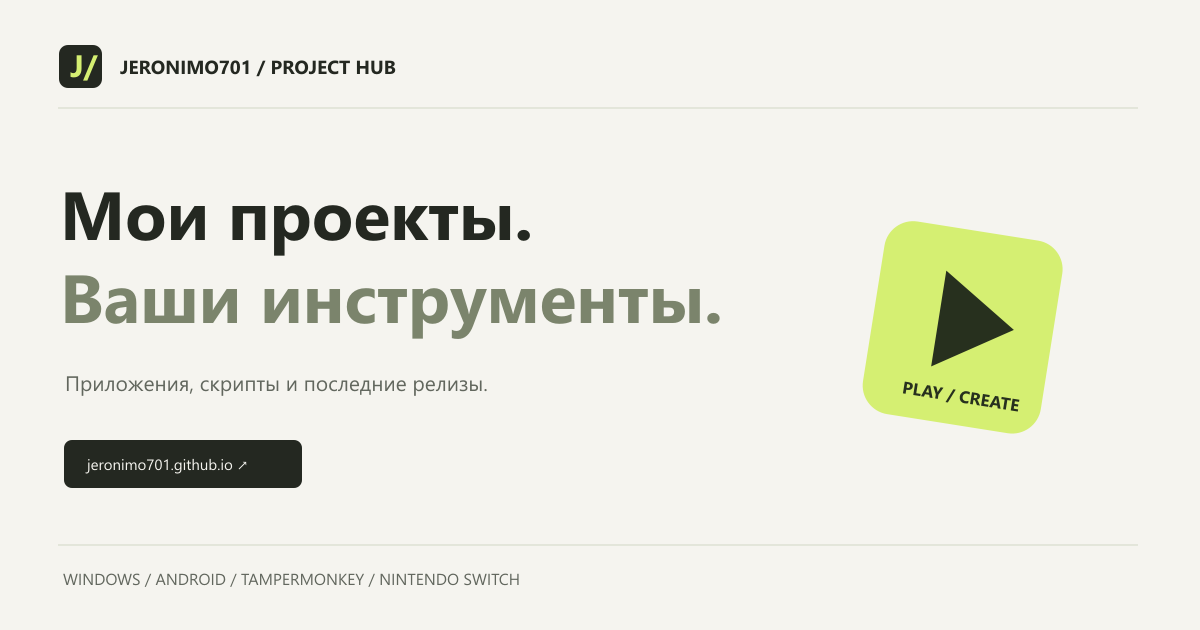
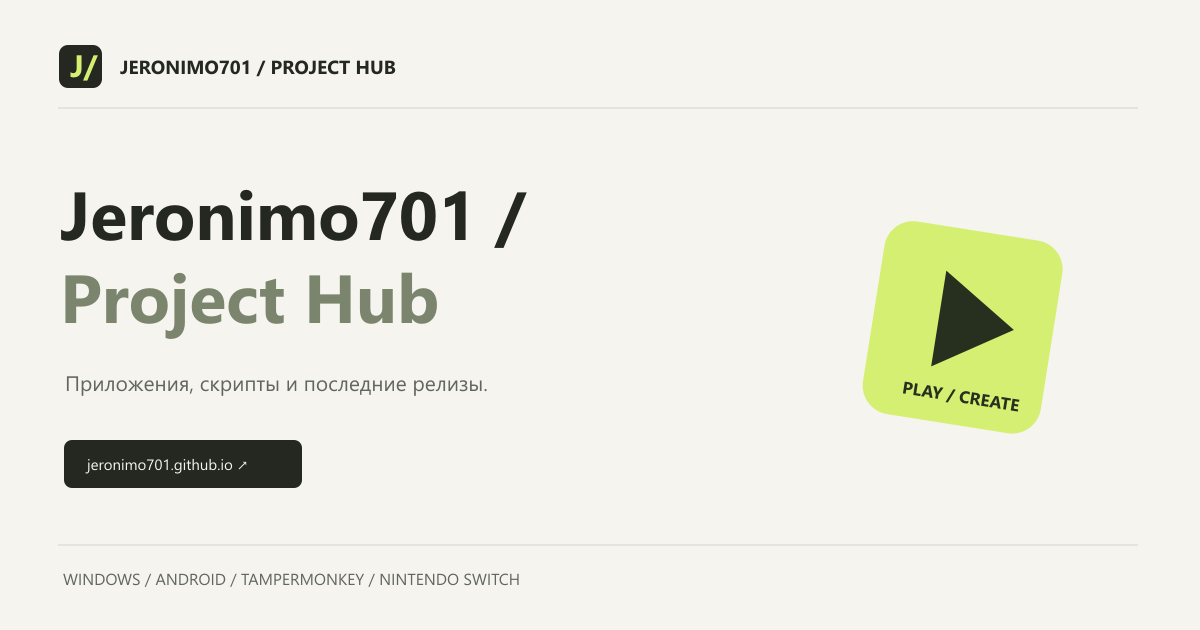
Update Project Hub headline and wait for Pages artifact before deployment

Changed region(s): [[0.0617, 0.4222, 0.6167, 0.5429], [0.0308, 0.3016, 0.4625, 0.4222]]

diff --git a/site/index.html b/site/index.html
@@ -6,8 +6,8 @@
   <meta name="theme-color" content="#f5f4ef">
   <title>Jeronimo701 — проекты и загрузки</title>
   <meta name="description" content="Приложения Jeronimo701 для Windows, Android, Nintendo Switch и скрипты Tampermonkey. Описания, исходники и последние релизы в одном месте.">
-  <meta property="og:title" content="Jeronimo701 — проекты и загрузки">
-  <meta property="og:description" content="Мои проекты. Ваши инструменты. Приложения, скрипты и последние релизы в одном каталоге.">
+  <meta property="og:title" content="Jeronimo701 / Project Hub">
+  <meta property="og:description" content="Project Hub: приложения, скрипты и последние релизы Jeronimo701 в одном каталоге.">
   <meta property="og:type" content="website">
   <meta property="og:url" content="https://jeronimo701.github.io/">
   <meta property="og:image" content="https://jeronimo701.github.io/assets/social.png">
@@ -26,7 +26,7 @@
   </header>
   <main>
     <section class="hero wrap" aria-labelledby="hero-title">
-      <div class="hero-copy"><div class="eyebrow"><span class="status-dot"></span> СДЕЛАНО JERONIMO701</div><h1 id="hero-title">Мои проекты.<br><span>Ваши инструменты.</span></h1><p>Для работы, любимого контента и&nbsp;повседневных задач. Приложения и&nbsp;скрипты, собранные в&nbsp;одном месте.</p><div class="hero-actions"><a href="#catalog" class="button primary">Выбрать инструмент <span aria-hidden="true">↘</span></a><a href="https://github.com/jeronimo701" class="text-link">Посмотреть исходники ↗</a></div><div class="hero-meta"><span><strong id="project-total">—</strong> открытых проектов</span><span class="divider"></span><span>Windows · Android · Web · Switch</span></div></div>
+      <div class="hero-copy"><div class="eyebrow"><span class="status-dot"></span> СДЕЛАНО JERONIMO701</div><h1 id="hero-title">Jeronimo701 /<br><span>Project Hub</span></h1><p>Для работы, любимого контента и&nbsp;повседневных задач. Приложения и&nbsp;скрипты, собранные в&nbsp;одном месте.</p><div class="hero-actions"><a href="#catalog" class="button primary">Выбрать инструмент <span aria-hidden="true">↘</span></a><a href="https://github.com/jeronimo701" class="text-link">Посмотреть исходники ↗</a></div><div class="hero-meta"><span><strong id="project-total">—</strong> открытых проектов</span><span class="divider"></span><span>Windows · Android · Web · Switch</span></div></div>
       <div class="hero-art" aria-hidden="true"><div class="art-header"><span>J701 / TOOLBOX</span><span class="art-dots">● ● ●</span></div><div class="art-canvas"><div class="orbit-line orbit-one"></div><div class="orbit-line orbit-two"></div><div class="art-tile tile-play"><svg viewBox="0 0 100 100"><path d="M37 25 76 50 37 75Z"/></svg><span>PLAY</span></div><div class="art-tile tile-code"><span class="code-glyph">&lt;/&gt;</span><span>CREATE</span></div><div class="art-tile tile-scan"><svg viewBox="0 0 100 100"><path d="M20 38V20h18m24 0h18v18m0 24v18H62m-24 0H20V62M31 39v22m10-22v22m12-22v22m9-22v22m8-22v22"/></svg><span>WORK</span></div><div class="art-hub">701<span>PROJECT HUB</span></div><div class="art-note"><span class="status-dot"></span> Всегда есть что собрать.</div><span class="art-cross">+</span></div><div class="art-footer"><span>ИДЕЯ → ИНСТРУМЕНТ</span><span>01 — ∞</span></div></div>
     </section>
     <div class="platform-strip wrap" aria-label="Платформы"><span>РАЗНЫЕ ПЛАТФОРМЫ.<br><strong>ОДНА КОЛЛЕКЦИЯ.</strong></span><a href="#catalog" data-quick-filter="windows">⊞ <span>Windows</span></a><a href="#catalog" data-quick-filter="android"><svg viewBox="0 0 24 24" aria-hidden="true"><path d="M6 7 4 4m14 3 2-3M4 12a8 8 0 0 1 16 0v6H4Zm4 0h.01M16 12h.01"/></svg><span>Android</span></a><a href="#catalog" data-quick-filter="scripts">&lt;/&gt; <span>Tampermonkey</span></a><a href="#catalog" data-quick-filter="switch"><svg viewBox="0 0 24 24" aria-hidden="true"><path d="M10 3H7a4 4 0 0 0-4 4v10a4 4 0 0 0 4 4h3Zm4 0h3a4 4 0 0 1 4 4v10a4 4 0 0 1-4 4h-3Z"/><circle cx="7" cy="8" r="1"/><circle cx="17" cy="16" r="1"/></svg><span>Nintendo Switch</span></a></div>

diff --git a/README.md b/README.md
@@ -18,7 +18,7 @@
 
 ## Автоматическое обновление
 
-GitHub Actions пересобирает и публикует каталог при изменении сайта, вручную через **Actions → Update catalogue and deploy Pages → Run workflow** и раз в 6 часов. Плановые запуски GitHub могут задерживаться; при отсутствии активности GitHub может отключить расписание публичного репозитория через 60 дней. Проверяйте состояние workflow, если дата на сайте перестала обновляться.
+GitHub Actions пересобирает и публикует каталог при изменении сайта, вручную через **Actions → Update catalogue and deploy Pages → Run workflow** и раз в 6 часов. [Плановые запуски GitHub могут задерживаться](https://docs.github.com/en/actions/reference/workflows-and-actions/events-that-trigger-workflows#schedule); при отсутствии активности GitHub может отключить расписание публичного репозитория через 60 дней. Проверяйте состояние workflow, если дата на сайте перестала обновляться.
 
 Обновление получает **только публичные репозитории** через `/users/jeronimo701/repos` и их опубликованные обычные релизы. Закрытые проекты и черновики в каталог не попадают. Сам репозиторий сайта из списка исключён. Новые открытые проекты добавляются автоматически; название, категорию, платформы и порядок можно уточнить в `projects.json`.
 
@@ -48,7 +48,7 @@ python -m http.server 8080 --directory site
 | `scripts/validate.py` | Проверка каталога и локальных ресурсов |
 | `.github/workflows/pages.yml` | Обновление и публикация через Pages |
 
-В Settings → Pages выбран источник **GitHub Actions**. Workflow не имеет права менять исходники и использует `contents: read`, `pages: write`, `id-token: write`.
+В Settings → Pages выбран источник **GitHub Actions**. Workflow не имеет права менять исходники и использует `contents: read`; при публикации также `actions: read` для чтения артефакта, `pages: write` и `id-token: write`.
 
 ## Лицензия
 
